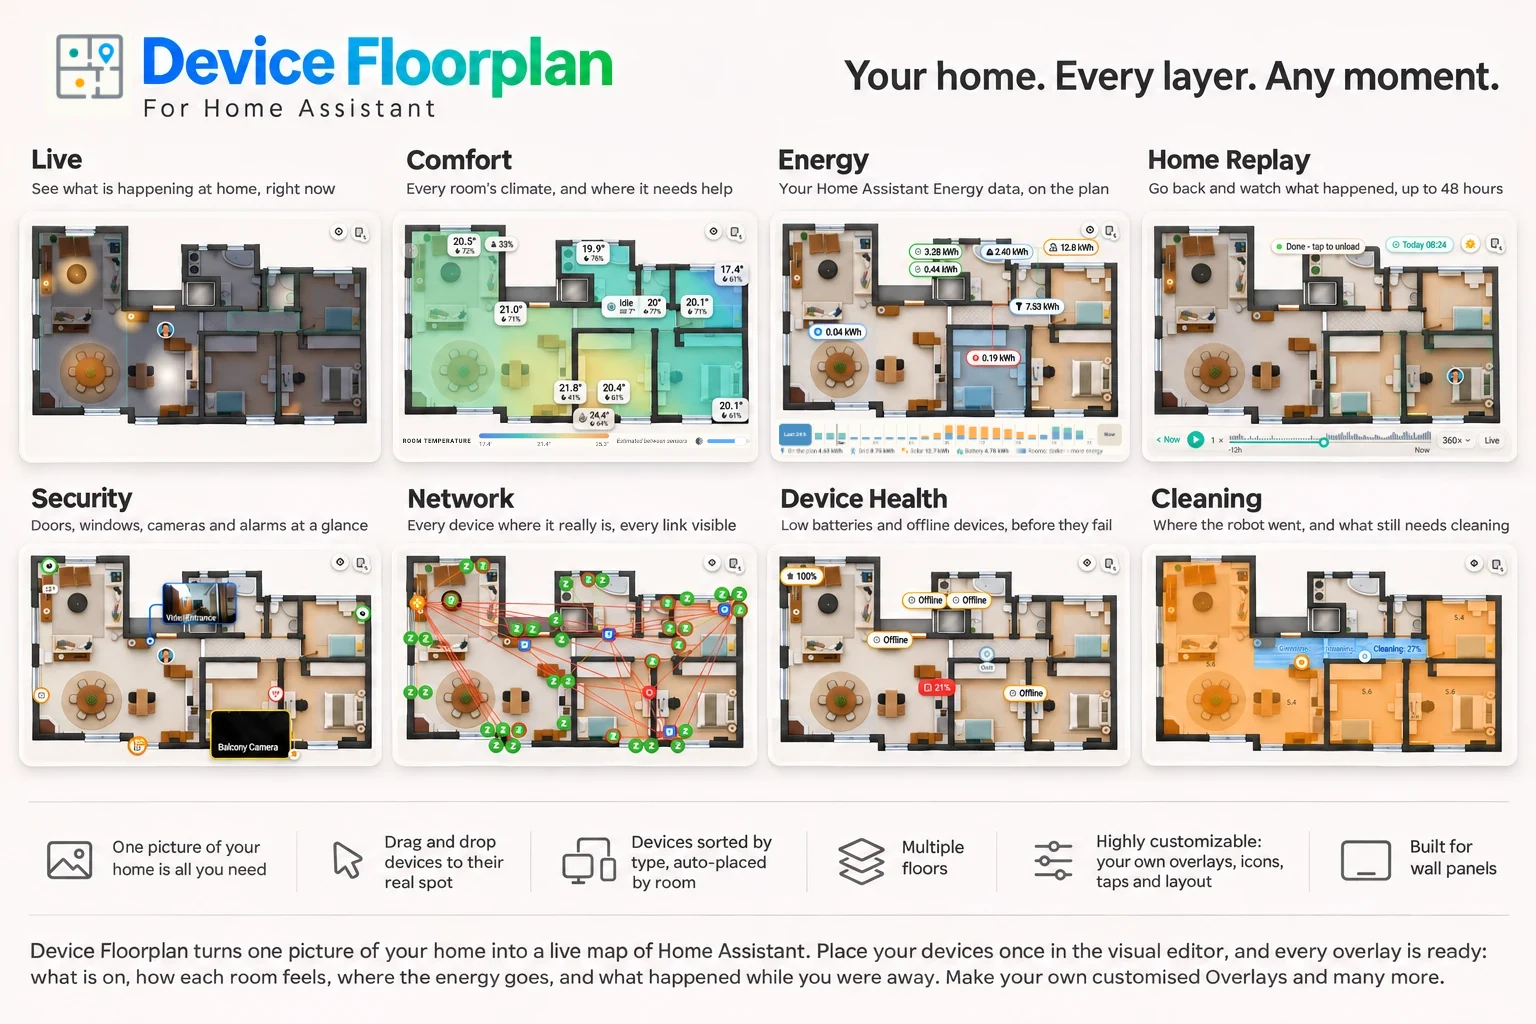
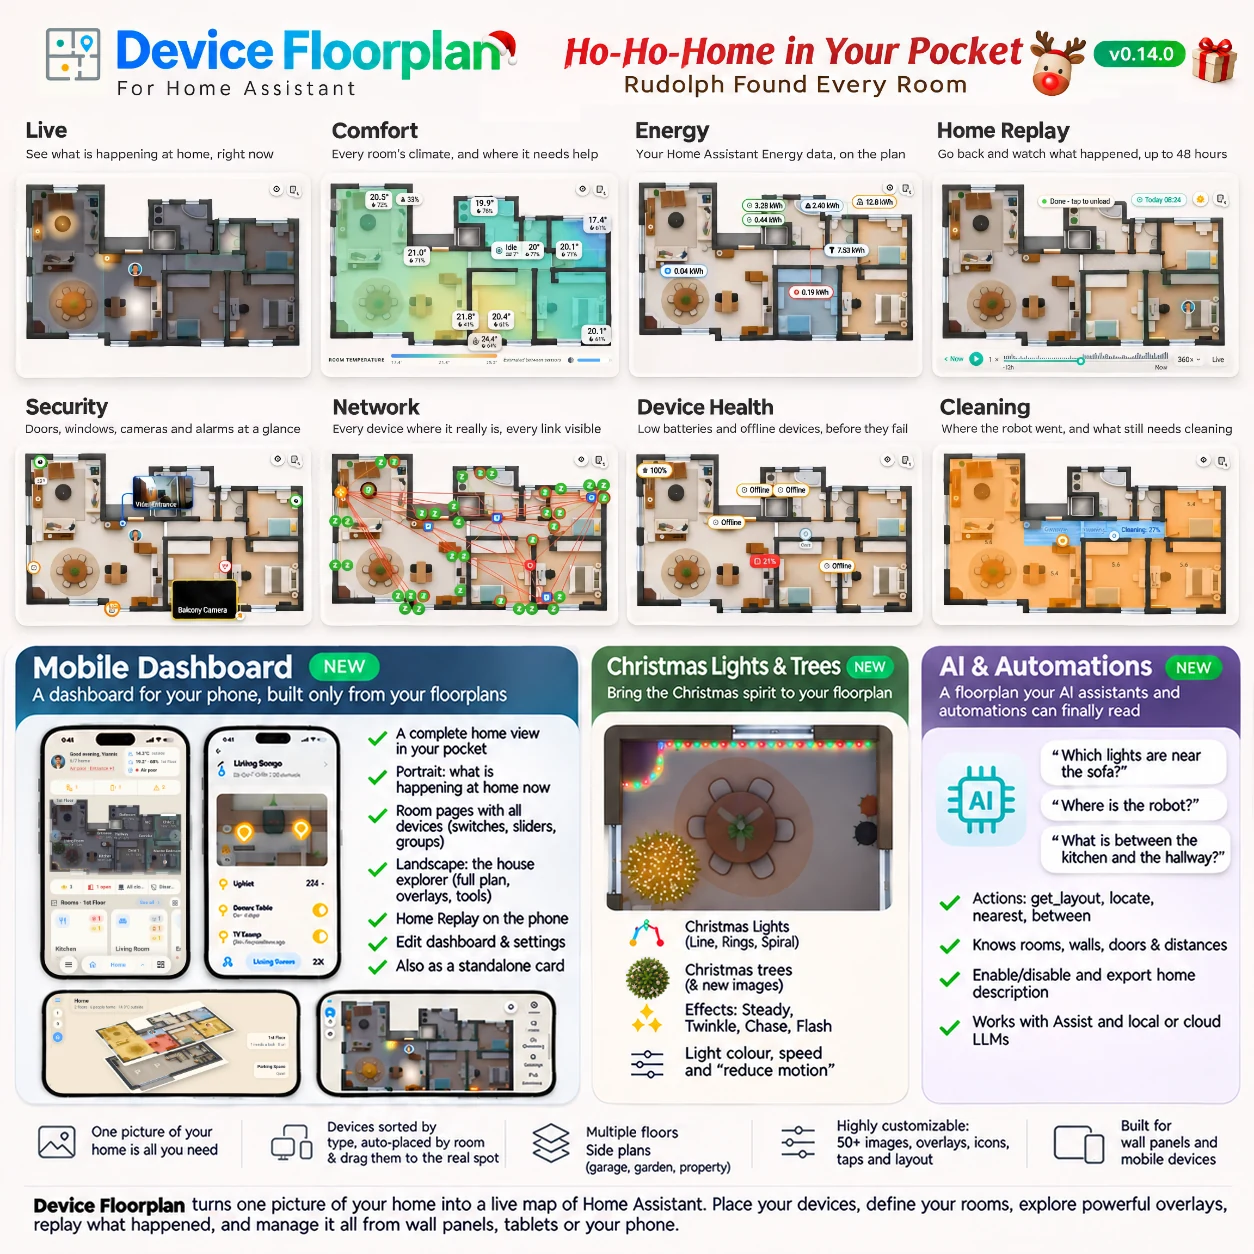
README: 0.14.0 overview picture (overlays, mobile dashboard, Christmas lights, AI)
Claude-Session: https://claude.ai/code/session_0186yEA4yWhvgxBoU8CDmhv1

diff --git a/README.md b/README.md
@@ -11,7 +11,7 @@
   <img src="https://raw.githubusercontent.com/JohnKotrolos/ha-device-floorplan/main/docs/public/readme/hero.webp" width="100%" alt="Device Floorplan with Home Replay: Live, Cleaning, Comfort, Energy and Network on one floorplan, replayed at Yesterday 20:30">
 </p>
 <p align="center">
-  <img src="https://raw.githubusercontent.com/JohnKotrolos/ha-device-floorplan/main/docs/public/readme/overview.webp" width="100%" alt="All overlays: Live, Comfort, Energy, Home Replay, Security, Network, Device Health and Cleaning">
+  <img src="https://raw.githubusercontent.com/JohnKotrolos/ha-device-floorplan/main/docs/public/readme/overview.webp" width="100%" alt="Device Floorplan 0.14.0: all overlays (Live, Comfort, Energy, Home Replay, Security, Network, Device Health, Cleaning), the new mobile dashboard, Christmas lights and trees, and the floorplan for AI assistants and automations">
 </p>
 
 Put your Home Assistant devices on **your own floorplan** and see your home alive:
